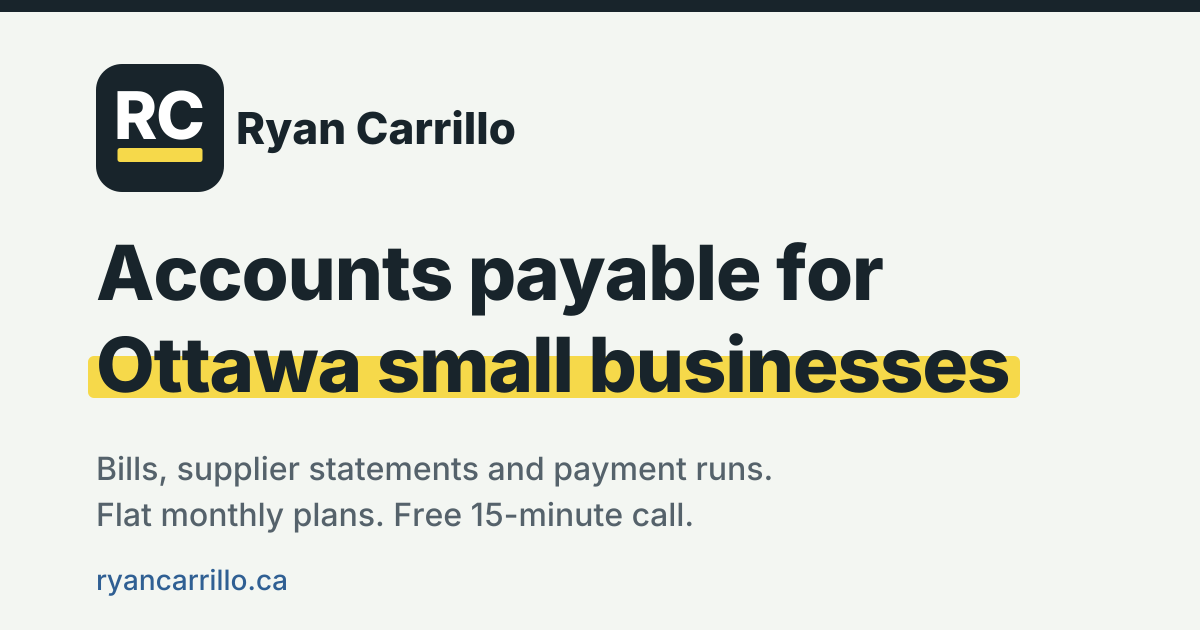
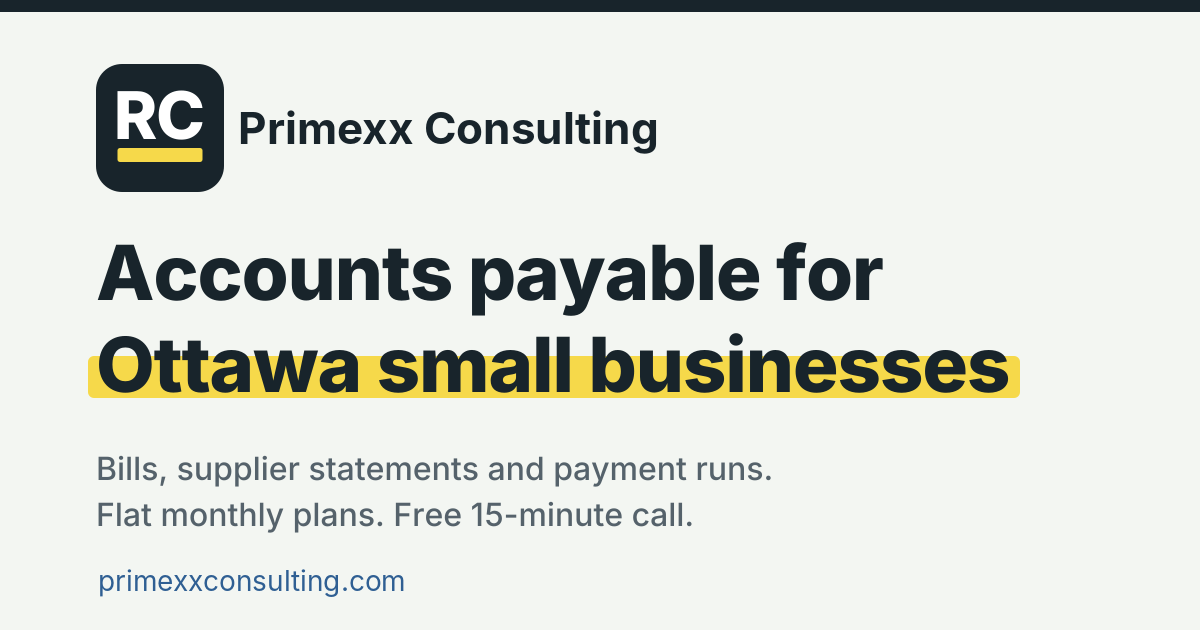
Move site to primexxconsulting.com and Primexx Consulting branding
Canonical URL, link-preview tags and image, contact email, page titles,
header, footer and manifest now use the new domain and name.
AP Health Check 0.9: new contact email.

Claude-Session: https://claude.ai/code/session_01VhJHtn9KWeDponNPLaHQ29

Changed region(s): [[0.185, 0.181, 0.555, 0.2413], [0.0617, 0.9048, 0.3392, 0.9349]]

diff --git a/health-check.html b/health-check.html
@@ -1,4 +1,4 @@
-<!doctype html><html><head><meta charset=utf8><meta name=viewport content="width=device-width,initial-scale=1,viewport-fit=cover"><style>:root{color-scheme:light;box-sizing:border-box;padding-top:env(safe-area-inset-top,0px);padding-bottom:env(safe-area-inset-bottom,0px)}html{scroll-padding-top:env(safe-area-inset-top,0px)}body{margin:0;padding:0;font:14px -apple-system,BlinkMacSystemFont,sans-serif;background:#fff;color:#000}img{max-width:100%}[hidden]:not([hidden=until-found i]){display:none!important}</style><link rel="icon" href="/favicon.ico" sizes="any"><link rel="icon" href="/favicon.svg" type="image/svg+xml"><link rel="apple-touch-icon" href="/apple-touch-icon.png"><link rel="manifest" href="/site.webmanifest"><meta name="theme-color" content="#18242B"><meta property="og:type" content="website"><meta property="og:site_name" content="Ryan Carrillo"><meta property="og:url" content="https://ryancarrillo.ca/health-check.html"><meta property="og:title" content="Free AP Health Check | Ryan Carrillo"><meta property="og:description" content="Drop in one bill export and spot duplicate bills, fraud red flags and recurring charges. Free, and your file never leaves your browser."><meta property="og:image" content="https://ryancarrillo.ca/og-image.png"><meta property="og:image:width" content="1200"><meta property="og:image:height" content="630"><meta name="twitter:card" content="summary_large_image"></head><body>
+<!doctype html><html><head><meta charset=utf8><meta name=viewport content="width=device-width,initial-scale=1,viewport-fit=cover"><style>:root{color-scheme:light;box-sizing:border-box;padding-top:env(safe-area-inset-top,0px);padding-bottom:env(safe-area-inset-bottom,0px)}html{scroll-padding-top:env(safe-area-inset-top,0px)}body{margin:0;padding:0;font:14px -apple-system,BlinkMacSystemFont,sans-serif;background:#fff;color:#000}img{max-width:100%}[hidden]:not([hidden=until-found i]){display:none!important}</style><link rel="icon" href="/favicon.ico" sizes="any"><link rel="icon" href="/favicon.svg" type="image/svg+xml"><link rel="apple-touch-icon" href="/apple-touch-icon.png"><link rel="manifest" href="/site.webmanifest"><meta name="theme-color" content="#18242B"><meta property="og:type" content="website"><meta property="og:site_name" content="Primexx Consulting"><meta property="og:url" content="https://primexxconsulting.com/health-check.html"><meta property="og:title" content="Free AP Health Check | Primexx Consulting"><meta property="og:description" content="Drop in one bill export and spot duplicate bills, fraud red flags and recurring charges. Free, and your file never leaves your browser."><meta property="og:image" content="https://primexxconsulting.com/og-image.png"><meta property="og:image:width" content="1200"><meta property="og:image:height" content="630"><meta name="twitter:card" content="summary_large_image"></head><body>
 <title>AP Health Check</title>
 <meta name="claude:viewport-fit-sides" content="cover">
 <link rel="stylesheet" href="https://fonts.googleapis.com/css2?family=IBM+Plex+Sans:wght@400;500;600;700&family=IBM+Plex+Mono:wght@400;500&display=swap">
@@ -105,7 +105,7 @@ footer{font-size:.78rem;color:var(--muted);text-align:center}
 
   <header>
     <h1>AP Health Check</h1>
-    <p class="ver">Version 0.8 · November 11, 2026</p>
+    <p class="ver">Version 0.9 · November 15, 2026</p>
     <p class="lede">Three free checks on your bill list: bills that may have been paid twice, signs of payment fraud, and recurring charges that quietly went up. Drop in one export and all three run at once.</p>
   </header>
 
@@ -208,7 +208,7 @@ const CONFIG={
   name:"Ryan Carrillo",
   role:"Accounts payable specialist",
   location:"Canada",
-  email:"ryan@ryancarrillo.ca",
+  email:"ryan@primexxconsulting.com",
   phone:"",
   bookingUrl:"https://cal.com/ryan-carrillo-3ljd4a/30min",
   bio:"I work in accounts payable every day: entering bills, chasing approvals, reconciling vendor statements and catching the mistakes that cost businesses money. I help small businesses keep their payables clean and their payment runs safe."
@@ -872,5 +872,4 @@ loadVendors(sampleVendors(),"Sample vendor list",true);
 loadRows(sampleBills(),"Sample bills",true);
 const h0=location.hash.slice(1);show(TABS.includes(h0)?h0:"duplicates");
 </script>
-
 </body></html>

diff --git a/index.html b/index.html
@@ -3,9 +3,9 @@
 <head>
 <meta charset="utf-8">
 <meta name="viewport" content="width=device-width, initial-scale=1">
-<title>Ryan Carrillo | Accounts payable for Ottawa small businesses</title>
-<meta name="description" content="Ryan Carrillo handles bills, supplier statements and payment runs for Ottawa contractors, salons and small shops. Flat monthly plans from $200.">
-<link rel="canonical" href="https://ryancarrillo.ca/">
+<title>Primexx Consulting | Accounts payable for Ottawa small businesses</title>
+<meta name="description" content="Primexx Consulting handles bills, supplier statements and payment runs for Ottawa contractors, salons and small shops. Flat monthly plans from $200.">
+<link rel="canonical" href="https://primexxconsulting.com/">
 
 <!-- Favicon -->
 <link rel="icon" href="/favicon.ico" sizes="any">
@@ -16,14 +16,14 @@
 
 <!-- Link preview (Facebook, LinkedIn, iMessage, Slack, X) -->
 <meta property="og:type" content="website">
-<meta property="og:site_name" content="Ryan Carrillo">
-<meta property="og:url" content="https://ryancarrillo.ca/">
-<meta property="og:title" content="Ryan Carrillo | Accounts payable for Ottawa small businesses">
+<meta property="og:site_name" content="Primexx Consulting">
+<meta property="og:url" content="https://primexxconsulting.com/">
+<meta property="og:title" content="Primexx Consulting | Accounts payable for Ottawa small businesses">
 <meta property="og:description" content="Bills, supplier statements and payment runs for Ottawa contractors, salons and small shops. Flat monthly plans. Free 15-minute call.">
-<meta property="og:image" content="https://ryancarrillo.ca/og-image.png">
+<meta property="og:image" content="https://primexxconsulting.com/og-image.png">
 <meta property="og:image:width" content="1200">
 <meta property="og:image:height" content="630">
-<meta property="og:image:alt" content="Ryan Carrillo, accounts payable for Ottawa small businesses">
+<meta property="og:image:alt" content="Primexx Consulting, accounts payable for Ottawa small businesses">
 <meta property="og:locale" content="en_CA">
 <meta name="twitter:card" content="summary_large_image">
 <link rel="preconnect" href="https://fonts.googleapis.com">
@@ -229,7 +229,7 @@
 <body>
 
 <header class="wrap site-head">
-  <a class="name" href="#top">Ryan Carrillo <span>&nbsp;Accounts payable</span></a>
+  <a class="name" href="#top">Primexx Consulting <span>&nbsp;Accounts payable</span></a>
   <nav class="head-actions" aria-label="Site">
     <a class="btn btn-quiet" href="/login.html">Log in</a>
     <a class="btn btn-primary" href="#contact">Book a call</a>
@@ -386,7 +386,7 @@
       <p class="intro">Fifteen minutes, no obligation. Tell me a bit about your business and we'll see if it's a fit.</p>
       <div class="contact-lines">
         <a class="btn btn-primary" href="https://cal.com/ryan-carrillo-3ljd4a/15min" target="_blank" rel="noopener">Book a free 15-minute call</a>
-        <a class="mail" href="mailto:ryan@ryancarrillo.ca">ryan@ryancarrillo.ca</a>
+        <a class="mail" href="mailto:ryan@primexxconsulting.com">ryan@primexxconsulting.com</a>
       </div>
 
       <!-- Cal.com inline embed: 15-minute call -->
@@ -409,7 +409,7 @@
 </main>
 
 <footer>
-  <div class="wrap">Ryan Carrillo, accounts payable services in Ottawa, Ontario</div>
+  <div class="wrap">Primexx Consulting, accounts payable services in Ottawa, Ontario</div>
 </footer>
 
 </body>

diff --git a/login.html b/login.html
@@ -6,7 +6,7 @@
 <meta http-equiv="Content-Security-Policy" content="default-src 'none'; script-src 'self' https://cdn.jsdelivr.net https://challenges.cloudflare.com; style-src 'self' 'unsafe-inline' https://fonts.googleapis.com; font-src https://fonts.gstatic.com; connect-src https://*.supabase.co https://cdn.jsdelivr.net; frame-src https://challenges.cloudflare.com; img-src 'self' data:; manifest-src 'self'; base-uri 'none'; form-action 'none'">
 <meta name="robots" content="noindex, nofollow">
 <meta name="referrer" content="no-referrer">
-<title>Sign in | Ryan Carrillo</title>
+<title>Sign in | Primexx Consulting</title>
 <link rel="icon" href="/favicon.ico" sizes="any">
 <link rel="icon" href="/favicon.svg" type="image/svg+xml">
 <link rel="preconnect" href="https://fonts.googleapis.com">
@@ -18,7 +18,7 @@
 </head>
 <body>
 <main class="card">
-  <a class="name" href="/">Ryan Carrillo <span>&nbsp;Accounts payable</span></a>
+  <a class="name" href="/">Primexx Consulting <span>&nbsp;Accounts payable</span></a>
   <h1 id="title">Sign in</h1>
   <p class="lede" id="lede">Private area. Sign in to continue.</p>
 

diff --git a/reset-password.html b/reset-password.html
@@ -6,7 +6,7 @@
 <meta http-equiv="Content-Security-Policy" content="default-src 'none'; script-src 'self' https://cdn.jsdelivr.net; style-src 'self' 'unsafe-inline' https://fonts.googleapis.com; font-src https://fonts.gstatic.com; connect-src https://*.supabase.co https://cdn.jsdelivr.net; img-src 'self' data:; manifest-src 'self'; base-uri 'none'; form-action 'none'">
 <meta name="robots" content="noindex, nofollow">
 <meta name="referrer" content="no-referrer">
-<title>Choose a new password | Ryan Carrillo</title>
+<title>Choose a new password | Primexx Consulting</title>
 <link rel="icon" href="/favicon.ico" sizes="any">
 <link rel="icon" href="/favicon.svg" type="image/svg+xml">
 <link rel="preconnect" href="https://fonts.googleapis.com">
@@ -17,7 +17,7 @@
 </head>
 <body>
 <main class="card">
-  <a class="name" href="/">Ryan Carrillo <span>&nbsp;Accounts payable</span></a>
+  <a class="name" href="/">Primexx Consulting <span>&nbsp;Accounts payable</span></a>
   <h1>Choose a new password</h1>
   <p class="lede" id="lede">Checking your reset link…</p>
 

diff --git a/account/login.js b/account/login.js
@@ -33,7 +33,7 @@ function say(text, kind) { msg.textContent = text || ""; msg.className = "msg" +
 function setMode(m) {
   mode = m; const M = MODES[m];
   $("title").textContent = M.title; $("lede").textContent = M.lede; go.textContent = M.button;
-  document.title = M.title + " | Ryan Carrillo";
+  document.title = M.title + " | Primexx Consulting";
   $("pwRow").hidden = m === "forgot";
   $("pw2Row").hidden = $("pwHint").hidden = m !== "signup";
   pw.autocomplete = m === "signup" ? "new-password" : "current-password";

diff --git a/ap-tools.html b/ap-tools.html
@@ -5,7 +5,7 @@
 <meta name="viewport" content="width=device-width, initial-scale=1">
 <meta name="robots" content="noindex, nofollow">
 <meta name="referrer" content="no-referrer">
-<title>AP Tools | Ryan Carrillo</title>
+<title>AP Tools | Primexx Consulting</title>
 <link rel="icon" href="/favicon.ico" sizes="any">
 <link rel="icon" href="/favicon.svg" type="image/svg+xml">
 <link rel="stylesheet" href="/account/account.css">
